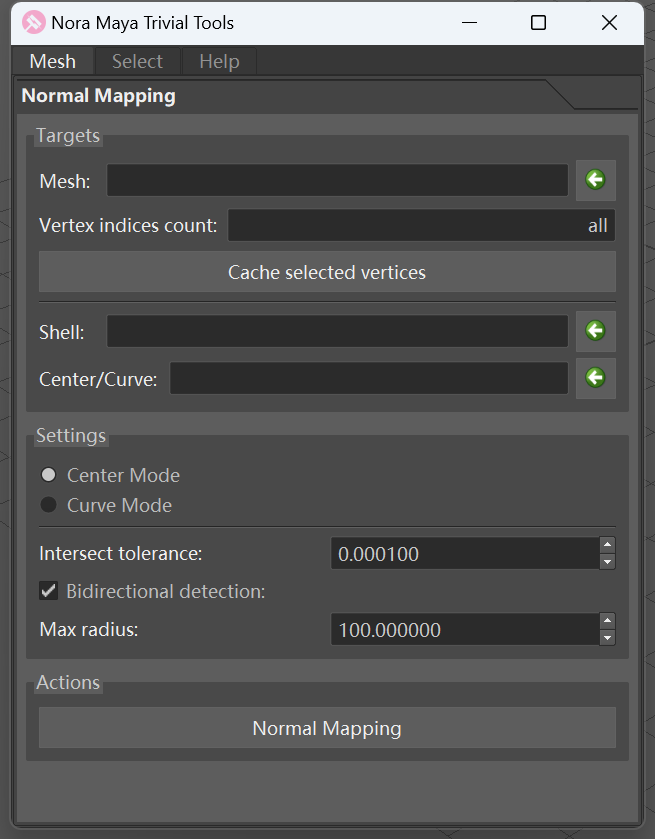
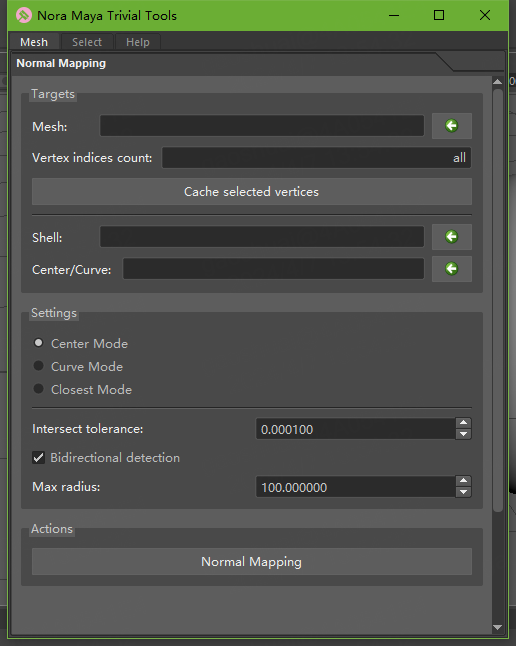
closest mode

diff --git a/Mesh/noraNormalMapping.py b/Mesh/noraNormalMapping.py
@@ -62,6 +62,7 @@ class NoraNormalMapping(QtWidgets.QDialog, noraNormalMappingWidget.Ui_noraNormal
     def normal_mapping(self):
         mapping_by_center = self.centerRadioButton.isChecked()
         mapping_by_curve = self.curveRadioButton.isChecked()
+        mapping_by_distance = self.closestRadioButton.isChecked()
         two_way = self.twoWayCheckBox.isChecked()
         intersect_tol = self.tolSpinBox.value()
         center_curve_target = self.curve_select_widget.dag_name
@@ -69,16 +70,17 @@ class NoraNormalMapping(QtWidgets.QDialog, noraNormalMappingWidget.Ui_noraNormal
         max_raidus = self.maxRadiusSpinBox.value()
         shell_mfn = None
         # curve/center
-        if cmds.objExists(center_curve_target):
-            center_curve_target = noraUtilities.get_dag_path_by_name(center_curve_target)
-            if mapping_by_curve:
-                center_curve_target = om.MFnNurbsCurve(center_curve_target)
-                if center_curve_target is None:
-                    print("\'Center/Curve\' not a curve")
-                    return
-        else:
-            print("\'Center/Curve\' not set")
-            return
+        if not mapping_by_distance:
+            if cmds.objExists(center_curve_target):
+                center_curve_target = noraUtilities.get_dag_path_by_name(center_curve_target)
+                if mapping_by_curve:
+                    center_curve_target = om.MFnNurbsCurve(center_curve_target)
+                    if center_curve_target is None:
+                        print("\'Center/Curve\' not a curve")
+                        return
+            else:
+                print("\'Center/Curve\' not set")
+                return
         # shell
         if cmds.objExists(shell_target_dag_path):
             shell_target_dag_path = noraUtilities.get_dag_path_by_name(shell_target_dag_path)
@@ -166,6 +168,23 @@ class NoraNormalMapping(QtWidgets.QDialog, noraNormalMappingWidget.Ui_noraNormal
                     normal_list.append(target_mesh.getVertexNormal(v_idx, True, om.MSpace.kWorld))
                 else:
                     normal_list.append(surface_normal)
+        elif mapping_by_distance:
+            vertices = target_mesh.getPoints(om.MSpace.kWorld)
+            for i in range(vert_num):
+                v_idx = target_indices[i]
+                process_bar.set_progress_bar_value(process_bar_step * i)
+                p2_point = vertices[v_idx]
+                surface_normal = None
+                if shell_mfn.type() == om.MFn.kMesh:
+                    surface_normal = shell_mfn.getClosestNormal(p2_point, om.MSpace.kWorld)[0]
+                else:
+                    point_info = shell_mfn.closestPoint(p2_point)
+                    surface_normal = shell_mfn.normal(point_info[1], point_info[2], om.MSpace.kWorld)
+                if surface_normal is None:
+                    normal_list.append(target_mesh.getVertexNormal(v_idx, True, om.MSpace.kWorld))
+                else:
+                    normal_list.append(surface_normal)
+
         target_mesh.setVertexNormals(normal_list, target_indices, om.MSpace.kWorld)
         process_bar.stop_progress_bar()
 

diff --git a/Mesh/UI/noraNormalMappingWidget.py b/Mesh/UI/noraNormalMappingWidget.py
@@ -99,6 +99,11 @@ class Ui_noraNormalMappingWidget(object):
 
         self.verticalLayout_2.addWidget(self.curveRadioButton)
 
+        self.closestRadioButton = QRadioButton(self.groupBox_2)
+        self.closestRadioButton.setObjectName(u"closestRadioButton")
+
+        self.verticalLayout_2.addWidget(self.closestRadioButton)
+
 
         self.verticalLayout_3.addLayout(self.verticalLayout_2)
 
@@ -193,6 +198,7 @@ class Ui_noraNormalMappingWidget(object):
         self.groupBox_2.setTitle(QCoreApplication.translate("noraNormalMappingWidget", u"Settings", None))
         self.centerRadioButton.setText(QCoreApplication.translate("noraNormalMappingWidget", u"Center Mode", None))
         self.curveRadioButton.setText(QCoreApplication.translate("noraNormalMappingWidget", u"Curve Mode", None))
+        self.closestRadioButton.setText(QCoreApplication.translate("noraNormalMappingWidget", u"Closest Mode", None))
         self.label_2.setText(QCoreApplication.translate("noraNormalMappingWidget", u"Intersect tolerance: ", None))
         self.twoWayCheckBox.setText(QCoreApplication.translate("noraNormalMappingWidget", u"Bidirectional detection", None))
         self.label_3.setText(QCoreApplication.translate("noraNormalMappingWidget", u"Max radius: ", None))

diff --git a/README.md b/README.md
@@ -22,7 +22,7 @@ Notation：vertex position $\mathbf{x}$, vertex normal $\mathbf{n}$, center  $\m
 
 ### Normal Mapping
 
-<img src="README.assets/image-20240406221926613.png" alt="image-20240406221926613" style="zoom:50%;" />
+<img src="README.assets/image-20240406221926613.png" alt="image-20240406221926613" style="zoom: 67%;" />
 
 This function is used to synchronize the normals of one object (usually a smooth surface) with another object.
 
@@ -32,9 +32,10 @@ This function is used to synchronize the normals of one object (usually a smooth
 | Vertex indices count        | Cached number of vertices.                                   |
 | **Cache selected vertices** | Cache selected vertices.                                     |
 | Shell                       | The target to map to, which can be a Mesh or a Nurbs surface. |
-| Center/Curve                | The center object or curve to use for mapping.               |
+| Center/Curve                | The center object or curve to use for mapping. (can be omitted on 'Closest Mode'). |
 | Center Mode                 | The center object's coordinates are $\mathbf{c}$. The function calculate the closest intersection point between the ray starting from $\mathbf{x}$ in the direction of $\mathbf{x} - \mathbf{c}$ and the Shell. |
 | Curve Mode                  | First, determine the closest point $\mathbf{c}$ on the curve to the vertex. Then, calculate the closest intersection point between the ray starting from $\mathbf{x}$ in the direction of $\mathbf{x} - \mathbf{c}$ and the Shell. |
+| Closest Mode                | Select the normal of the nearest point on the Shell          |
 | Intersect tolerance         | Maximum allowable error for intersection                     |
 | Bidirectional detection     | Shall we also calculate the closest intersection point (inward) between the ray starting from $\mathbf{x}$ in the direction of $\mathbf{c} - \mathbf{x}$ and the Shell? |
 | Max Radius                  | Maximum distance limit for intersection points, do not modify normals beyond the range |
@@ -77,7 +78,7 @@ noraMayaTrivialSetup.NoraTrivialTools().load_window()
 
 ### 法线映射
 
-<img src="README.assets/image-20240406221926613.png" alt="image-20240406221926613" style="zoom:50%;" />
+<img src="README.assets/image-20240406221926613.png" alt="image-20240406221926613" style="zoom:67%;" />
 
 此功能用于将一个物体（一半具有平滑的表面）的法线同步到另一个物体上
 
@@ -87,9 +88,10 @@ noraMayaTrivialSetup.NoraTrivialTools().load_window()
 | Vertex indices count        | 缓存的顶点数                                                 |
 | **Cache selected vertices** | 缓存选中的顶点                                               |
 | Shell                       | 要映射的目标，可以是 Mesh，也可以是 Nurbs surface            |
-| Center/Curve                | 映射的中心物体，或者曲线                                     |
+| Center/Curve                | 映射的中心物体，或者曲线（Closest Mode 时可以缺省）          |
 | Center Mode                 | 中心物体坐标为 $\mathbf{c}$，以 $\mathbf{x}$ 为起点， $\mathbf{x} - \mathbf{c}$ 为方向的射线与 Shell 计算最近的交点 |
 | Curve Mode                  | 首先确定顶点到曲线的最近点 $\mathbf{c}$，以 $\mathbf{x}$ 为起点, $\mathbf{x} - \mathbf{c}$ 方向的射线与 Shell 计算最近的交点 |
+| Closest Mode                | 选择 Shell 上最近的点的法线                                  |
 | Intersect tolerance         | 求交精度                                                     |
 | Bidirectional detection     | 是否同时向以 $\mathbf{x}$ 为起点, $\mathbf{c} - \mathbf{x}$ 方向的射线与 Shell 计算最近的交点（向内） |
 | Max Radius                  | 交点最大距离限制，超出范围后不修改法线                       |
